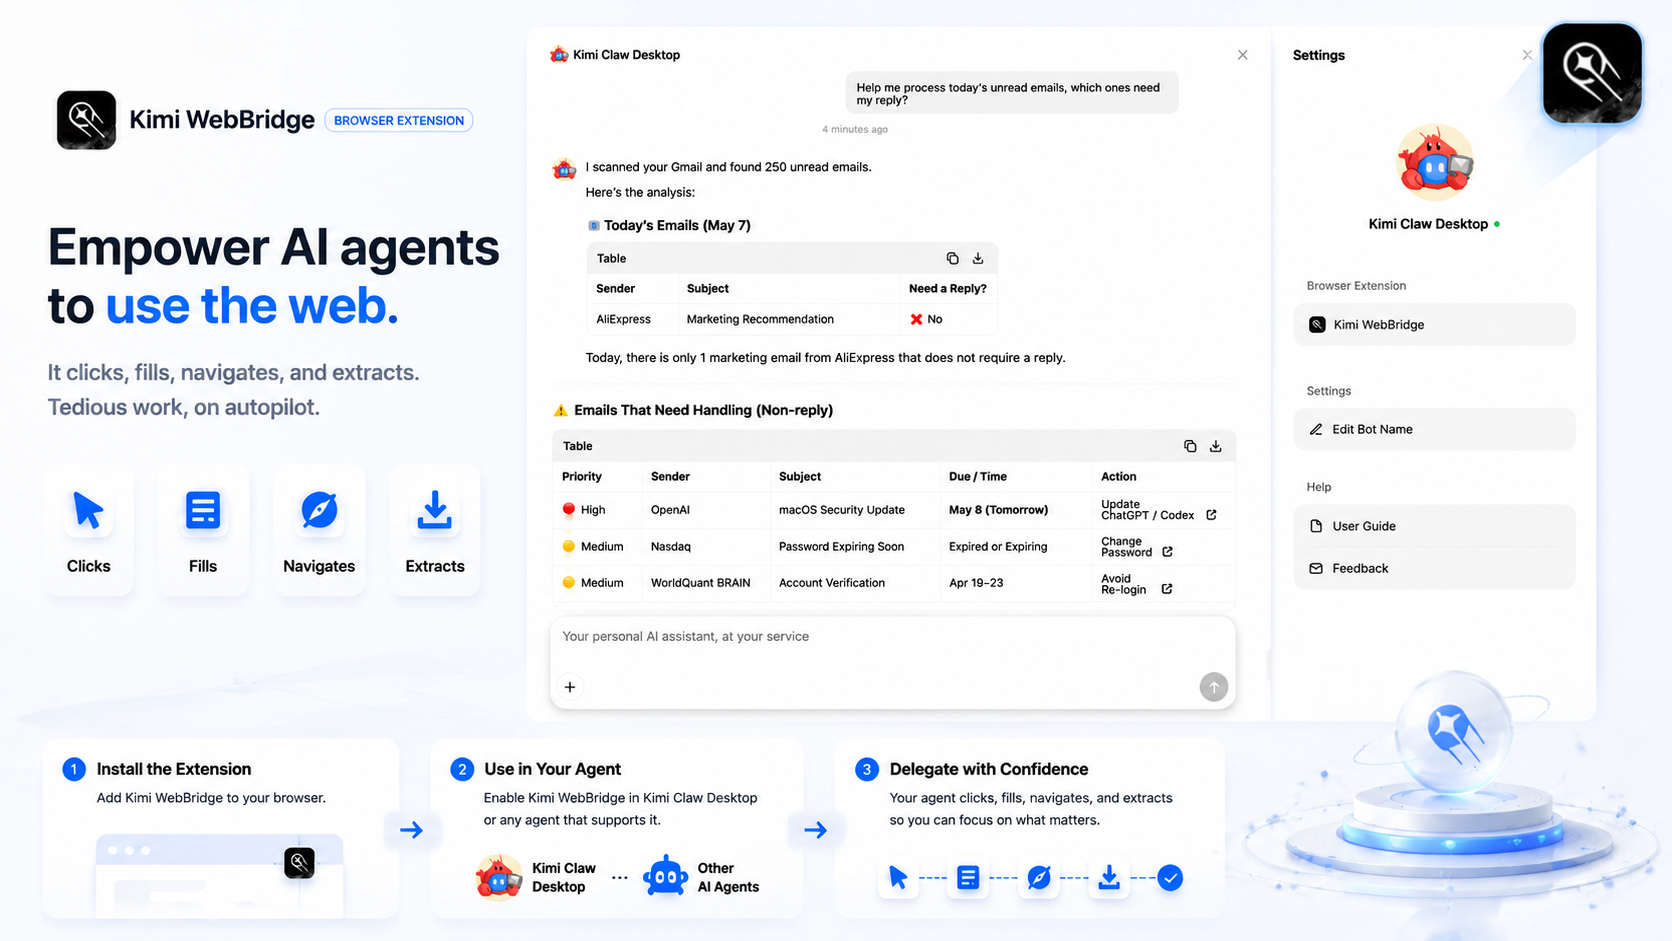
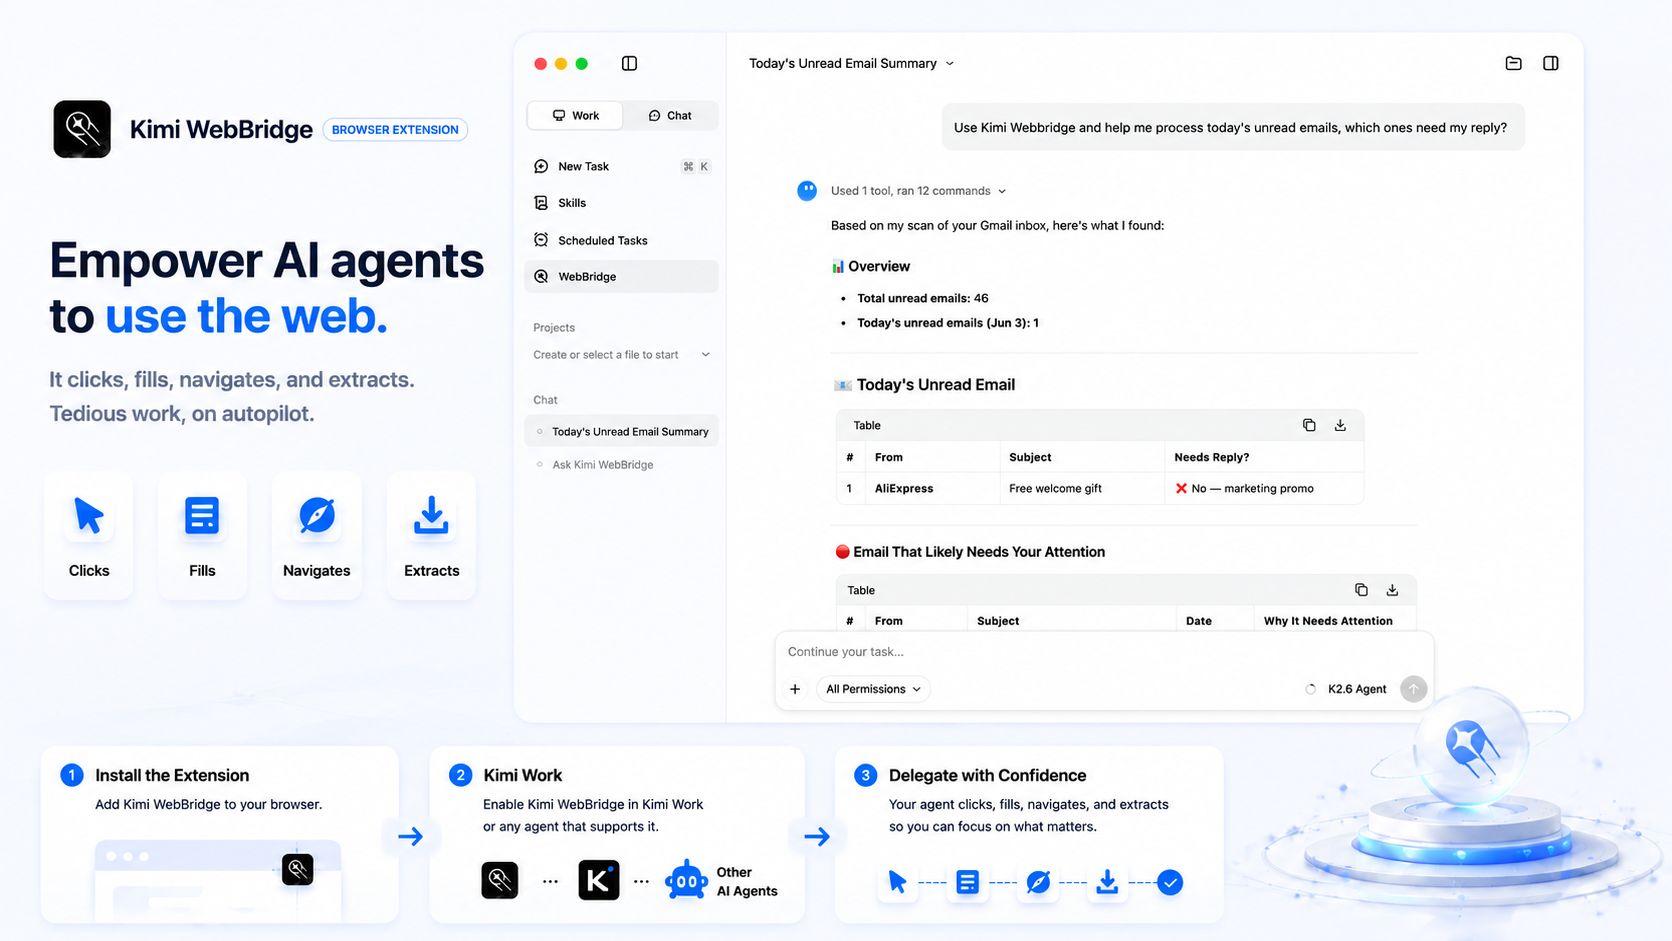
Update 4 files
- /zh-CN/kimi-webbridge/images/introduction-cn.png
- /zh-CN/kimi-webbridge/kimi-webbridge.md
- /en-US/kimi-webbridge/kimi-webbridge.md
- /en-US/kimi-webbridge/images/introduction.png

diff --git a/en-US/kimi-webbridge/kimi-webbridge.md b/en-US/kimi-webbridge/kimi-webbridge.md
@@ -87,7 +87,23 @@ After installation, you should see WebBridge in your browser's extensions list. 
 
 ## Step 2: Choose your setup method and complete configuration
 
-### Method 1: Pair with Local Agents
+### Method 1: Using with Kimi Work Desktop
+
+1. Download Kimi Work from the [official website](https://www.kimi.com/zh-cn/products/kimi-work)
+
+2. Once installed, you can send instructions in Kimi Work, for example:
+
+<CodePreview
+  files={[
+    {
+      name: "prompt.txt",
+      language: "text",
+      content: "/Kimi-webbridge Open Xiaohongshu and search for posts about the Kimi K2.6 release",
+    },
+  ]}
+/>
+
+### Method 2: Pair with Local Agents
 
 Supports Claude Code, Codex, Cursor, Kimi Code, Hermers Claw, and more.
 
@@ -133,35 +149,4 @@ Once the extension is connected, you can send instructions.
   ]}
 />
 
-### Method 2: pair with Kimi Claw Desktop
 
-1. Download Kimi Desktop (available for macOS / Windows from the official website)
-   - Kimi Claw Desktop requires an **Allegretto or higher** plan. See [Membership Plans](https://www.kimi.com/membership/pricing).
-
-2. Deploy Kimi Claw
-   1. Open Kimi Desktop, find Kimi Claw in the left sidebar, and click "Add Claw"
-   2. Select "Deploy on my computer"
-   3. Once deployed, the browser extension will connect automatically
-
-<Callout type="warning">
-Each user account currently supports up to 1 Kimi Claw Desktop deployment. If you have previously deployed on another computer, you will be prompted to disconnect the old Claw. You can choose according to your needs.
-</Callout>
-
-<Frames
-  src="./images/deploy-step.png"
-  alt="Deployment Step"
-/>
-
-3. Start Using
-
-Once deployed, you can send instructions in Kimi Claw, for example:
-
-<CodePreview
-  files={[
-    {
-      name: "prompt.txt",
-      language: "text",
-      content: "/Kimi WebBridge open X.com and search for posts about the Kimi K2.6 release",
-    },
-  ]}
-/>
